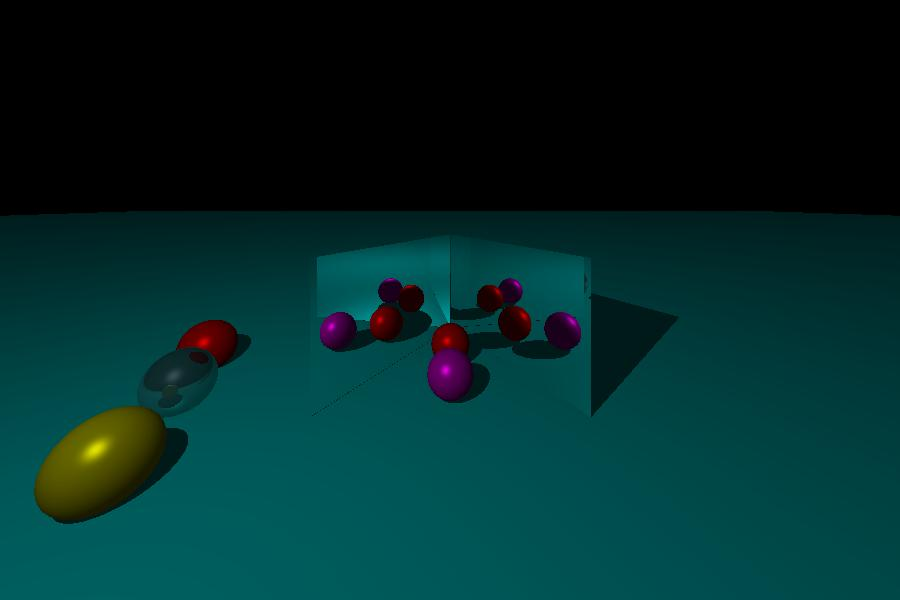
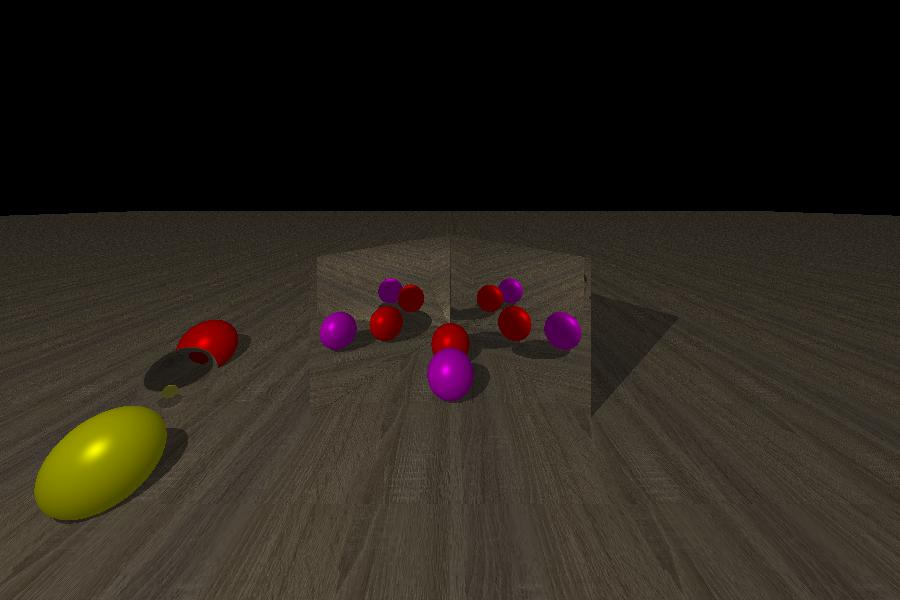
hw5

diff --git a/hw5/hw5.py b/hw5/hw5.py
@@ -14,16 +14,16 @@ backgroundColor = Vector(0.1, 0.1, 0.1)
 
 objects = []
 
-objects.append(Sphere(Vector(0, -200, 630), 40.0, Vector(255, 0, 0), Vector(255, 0, 0), Vector(255, 0, 0), 'default'))
-objects.append(Sphere(Vector(0, -200, 520), 40.0, Vector(255, 0, 255), Vector(255, 0, 255), Vector(255, 0, 255), 'default'))
+objects.append(Sphere(Vector(0, -200, 630), 40.0, Vector(255, 0, 0), 'default', None))
+objects.append(Sphere(Vector(0, -200, 520), 40.0, Vector(255, 0, 255), 'default', None))
 
-objects.append(Plane(Vector(0, -240, 500), Vector(0, 1, 0), Vector(0, 255, 255), Vector(0, 255, 255), Vector(0, 255, 255), 'default', Vector(-10000, -241, -10000), Vector(10000, -239, 10000)))
-objects.append(Plane(Vector(0, -240, 800), Vector(1.5, 0, -1).normal(), Vector(0, 0, 0), Vector(0, 0, 0), Vector(255, 255, 255), 'reflection', Vector(-220, -239, 100), Vector(0, 10, 800)))
-objects.append(Plane(Vector(0, -240, 800), Vector(-1.5, 0, -1).normal(), Vector(0, 0, 0), Vector(0, 0, 0),  Vector(255, 255, 255), 'reflection', Vector(0, -239, 100), Vector(220, 10, 800)))
+objects.append(Plane(Vector(0, -240, 500), Vector(0, 1, 0), Vector(0, 255, 255), 'default', Vector(-10000, -241, -10000), Vector(10000, -239, 10000), "texture.jpeg"))
+objects.append(Plane(Vector(0, -240, 800), Vector(1.5, 0, -1).normal(), Vector(255, 255, 255), 'reflection', Vector(-220, -239, 100), Vector(0, 10, 800), None))
+objects.append(Plane(Vector(0, -240, 800), Vector(-1.5, 0, -1).normal(), Vector(255, 255, 255), 'reflection', Vector(0, -239, 100), Vector(220, 10, 800), None))
 
-objects.append(Sphere(Vector(-500, -200, 620), 50, Vector(255, 0, 0), Vector(255, 0, 0),  Vector(255, 0, 0), 'default'))
-objects.append(Sphere(Vector(-400, -200, 350), 50, Vector(255, 255, 0), Vector(255, 255, 0),  Vector(255, 255, 0), 'default'))
-objects.append(Sphere(Vector(-450, -200, 500), 50, Vector(0, 0, 0), Vector(150, 171, 186),  Vector(230, 230, 230), 'reflection_refraction'))
+objects.append(Sphere(Vector(-500, -200, 620), 50, Vector(255, 0, 0), 'default', None))
+objects.append(Sphere(Vector(-400, -200, 350), 50, Vector(255, 255, 0), 'default', None))
+objects.append(Sphere(Vector(-450, -200, 500), 50, Vector(200, 200, 200), 'reflection_refraction', None))
 
 def getIntersections(ray):
     intersections = []
@@ -52,30 +52,27 @@ def isShade(obj, surfacePoint):
 def getColor(ray, eye, recur):
     intersections = getIntersections(ray)
 
-    if recur > 15:
-        color = backgroundColor * 0.1
-        return color
-
     if len(intersections) == 0:
         color = backgroundColor * 0.1
         return color
     else:
         minIntersection = getMinIntersection(intersections)
-        lVector = (lightSource - minIntersection.point).normal()
+        point = minIntersection.point
+        lVector = (lightSource - point).normal()
         nVector = minIntersection.normal
-        vVector = (eye - minIntersection.point).normal()
+        vVector = (eye - point).normal()
         rVector = (nVector * (Vector.dot(lVector, nVector) * 2) - lVector).normal()
         hVector = (nVector * (Vector.dot(vVector, nVector) * 2) - vVector).normal()
-        if minIntersection.obj.type == 'default':
-            if isShade(minIntersection.obj, minIntersection.point):
-                color = minIntersection.obj.ambColor * 0.1
+        if minIntersection.obj.type == 'default' or recur > 15:
+            if isShade(minIntersection.obj, point):
+                color = minIntersection.obj.getColor(point) * 0.3
                 return color
             else:
-                color = minIntersection.obj.ambColor * 0.1 + (minIntersection.obj.difColor * max(0, Vector.dot(nVector, lVector))) * 0.3 + (minIntersection.obj.speColor * max(0, Vector.dot(rVector, vVector)**15) * 0.5)
+                color = minIntersection.obj.getColor(point) * 0.3 + (minIntersection.obj.getColor(point) * max(0, Vector.dot(nVector, lVector))) * 0.3 + (minIntersection.obj.getColor(point) * max(0, Vector.dot(rVector, vVector)**15) * 0.4)
                 return color
         elif minIntersection.obj.type == 'reflection':
-            newRay = Ray(minIntersection.point, hVector)
-            newEye = minIntersection.point
+            newRay = Ray(point, hVector)
+            newEye = point
             color = getColor(newRay, newEye, recur + 1)
             return color
         elif minIntersection.obj.type == 'reflection_refraction':
@@ -84,32 +81,32 @@ def getColor(ray, eye, recur):
                 nr = 1 / 1.2
                 d = nVector * (ndotv * nr - math.sqrt(1 - (nr * nr * (1 - (ndotv * ndotv))))) - (vVector * nr)
 
-                color = minIntersection.obj.ambColor * 0.1 + (minIntersection.obj.difColor * max(0, Vector.dot(nVector, lVector))) * 0.3 + (minIntersection.obj.speColor * max(0, Vector.dot(rVector, vVector)**15) * 0.5)
+                color = minIntersection.obj.getColor(point) * 0.1 + (minIntersection.obj.getColor(point) * max(0, Vector.dot(nVector, lVector))) * 0.3 + (minIntersection.obj.getColor(point) * max(0, Vector.dot(rVector, vVector)**96) * 0.5)
 
-                newRay1 = Ray(minIntersection.point, d)
-                newEye1 = minIntersection.point
+                newRay1 = Ray(point, d)
+                newEye1 = point
                 color1 = getColor(newRay1, newEye1, recur + 1)
-                newRay2 = Ray(minIntersection.point, hVector)
-                newEye2 = minIntersection.point
+                newRay2 = Ray(point, hVector)
+                newEye2 = point
                 color2 = getColor(newRay2, newEye2, recur + 1)
-                return color * 0.333 + color1 * 0.333 + color2 * 0.333
+                return color1 * 0.5 + color2 * 0.5
             elif ndotv < 0:
-                nr = 1.2 / 1
+                nr = 1 / 1.2
                 nVector = nVector * (-1)
                 d = nVector * (ndotv * nr - math.sqrt(1 - (nr * nr * (1 - (ndotv * ndotv))))) - (vVector * nr)
-                newRay1 = Ray(minIntersection.point, d)
-                newEye1 = minIntersection.point
+                newRay1 = Ray(point, d)
+                newEye1 = point
                 color1 = getColor(newRay1, newEye1, recur + 1)
 
-                vVector = (eye - minIntersection.point).normal()
+                vVector = (eye - point).normal()
                 rVector = (nVector * (Vector.dot(lVector, nVector) * 2) - lVector).normal()
                 hVector = (nVector * (Vector.dot(vVector, nVector) * 2) - vVector).normal()
-                newRay2 = Ray(minIntersection.point, hVector)
-                newEye2 = minIntersection.point
+                newRay2 = Ray(point, hVector)
+                newEye2 = point
                 color2 = getColor(newRay2, newEye2, recur + 1)
 
-                color = minIntersection.obj.ambColor * 0.1 + (minIntersection.obj.difColor * max(0, Vector.dot(nVector, lVector))) * 0.3 + (minIntersection.obj.speColor * max(0, Vector.dot(rVector, vVector)**15) * 0.5)
-                return color * 0.333 + color1 * 0.333 + color2 * 0.333
+                color = minIntersection.obj.getColor(point) * 0.1 + (minIntersection.obj.getColor(point) * max(0, Vector.dot(nVector, lVector))) * 0.3 + (minIntersection.obj.getColor(point) * max(0, Vector.dot(rVector, vVector)**96) * 0.5)
+                return color1 * 0.7 + color2 * 0.3
 
             else:
                 color = backgroundColor * 0.1
@@ -119,16 +116,16 @@ def getColor(ray, eye, recur):
         #     if ndotv > 0:
         #         nr = 1 / 1.1
         #         d = nVector * (ndotv * nr - math.sqrt(1 - (nr * nr * (1 - (ndotv * ndotv))))) - (vVector * nr)
-        #         newRay = Ray(minIntersection.point, d)
-        #         newEye = minIntersection.point
+        #         newRay = Ray(point, d)
+        #         newEye = point
         #         color = getColor(newRay, newEye, recur + 1)
         #         return color
         #     elif ndotv < 0:
         #         nr = 1.1 / 1
         #         nVector = nVector * (-1)
         #         d = nVector * (ndotv * nr - math.sqrt(1 - (nr * nr * (1 - (ndotv * ndotv))))) - (vVector * nr)
-        #         newRay = Ray(minIntersection.point, d)
-        #         newEye = minIntersection.point
+        #         newRay = Ray(point, d)
+        #         newEye = point
         #         color = getColor(newRay, newEye, recur + 1)
         #         return color
 

diff --git a/hw5/Plane.py b/hw5/Plane.py
@@ -1,16 +1,19 @@
 from Vector import Vector
 from Intersection import Intersection
+from PIL import Image
 
 class Plane:
-    def __init__(self, point, normal, ambColor, difColor, speColor, typ, minxyz, maxxyz):
+    def __init__(self, point, normal, color, typ, minxyz, maxxyz, texture):
         self.point = point
         self.normal = normal
-        self.ambColor = ambColor
-        self.difColor = difColor
-        self.speColor = speColor
+        self.color = color
         self.type = typ
         self.minxyz = minxyz
         self.maxxyz = maxxyz
+        self.texture = texture
+        if texture != None:
+            self.im = Image.open(texture)
+            self.px = self.im.load()
     
     def getIntersection(self, ray):
         dot = Vector.dot(self.normal, ray.direction)
@@ -27,3 +30,11 @@ class Plane:
                     return None
             else:
                 return None
+        
+    def getColor(self, point):
+        if self.texture == None:
+            return self.color
+        else:
+            width, height = self.im.size
+            r, g, b = self.px[point.x % width, point.z % height]
+            return Vector(r, g, b)

diff --git a/hw5/Sphere.py b/hw5/Sphere.py
@@ -3,13 +3,12 @@ from Intersection import Intersection
 import math
 
 class Sphere:
-    def __init__(self, center, radius, ambColor, difColor, speColor, typ):
+    def __init__(self, center, radius, color, typ, texture):
         self.center = center
         self.radius = radius
-        self.ambColor = ambColor
-        self.difColor = difColor
-        self.speColor = speColor
+        self.color = color
         self.type = typ
+        self.texture = texture
     
     def normal(self, surfacePoint):
         return (surfacePoint - self.center).normal()
@@ -28,3 +27,7 @@ class Sphere:
                 return Intersection(ray.origin + ray.direction * t, t, self.normal(ray.origin + ray.direction * t), self)
             else:
                 return None
+    
+    def getColor(self, point):
+        if self.texture == None:
+            return self.color
